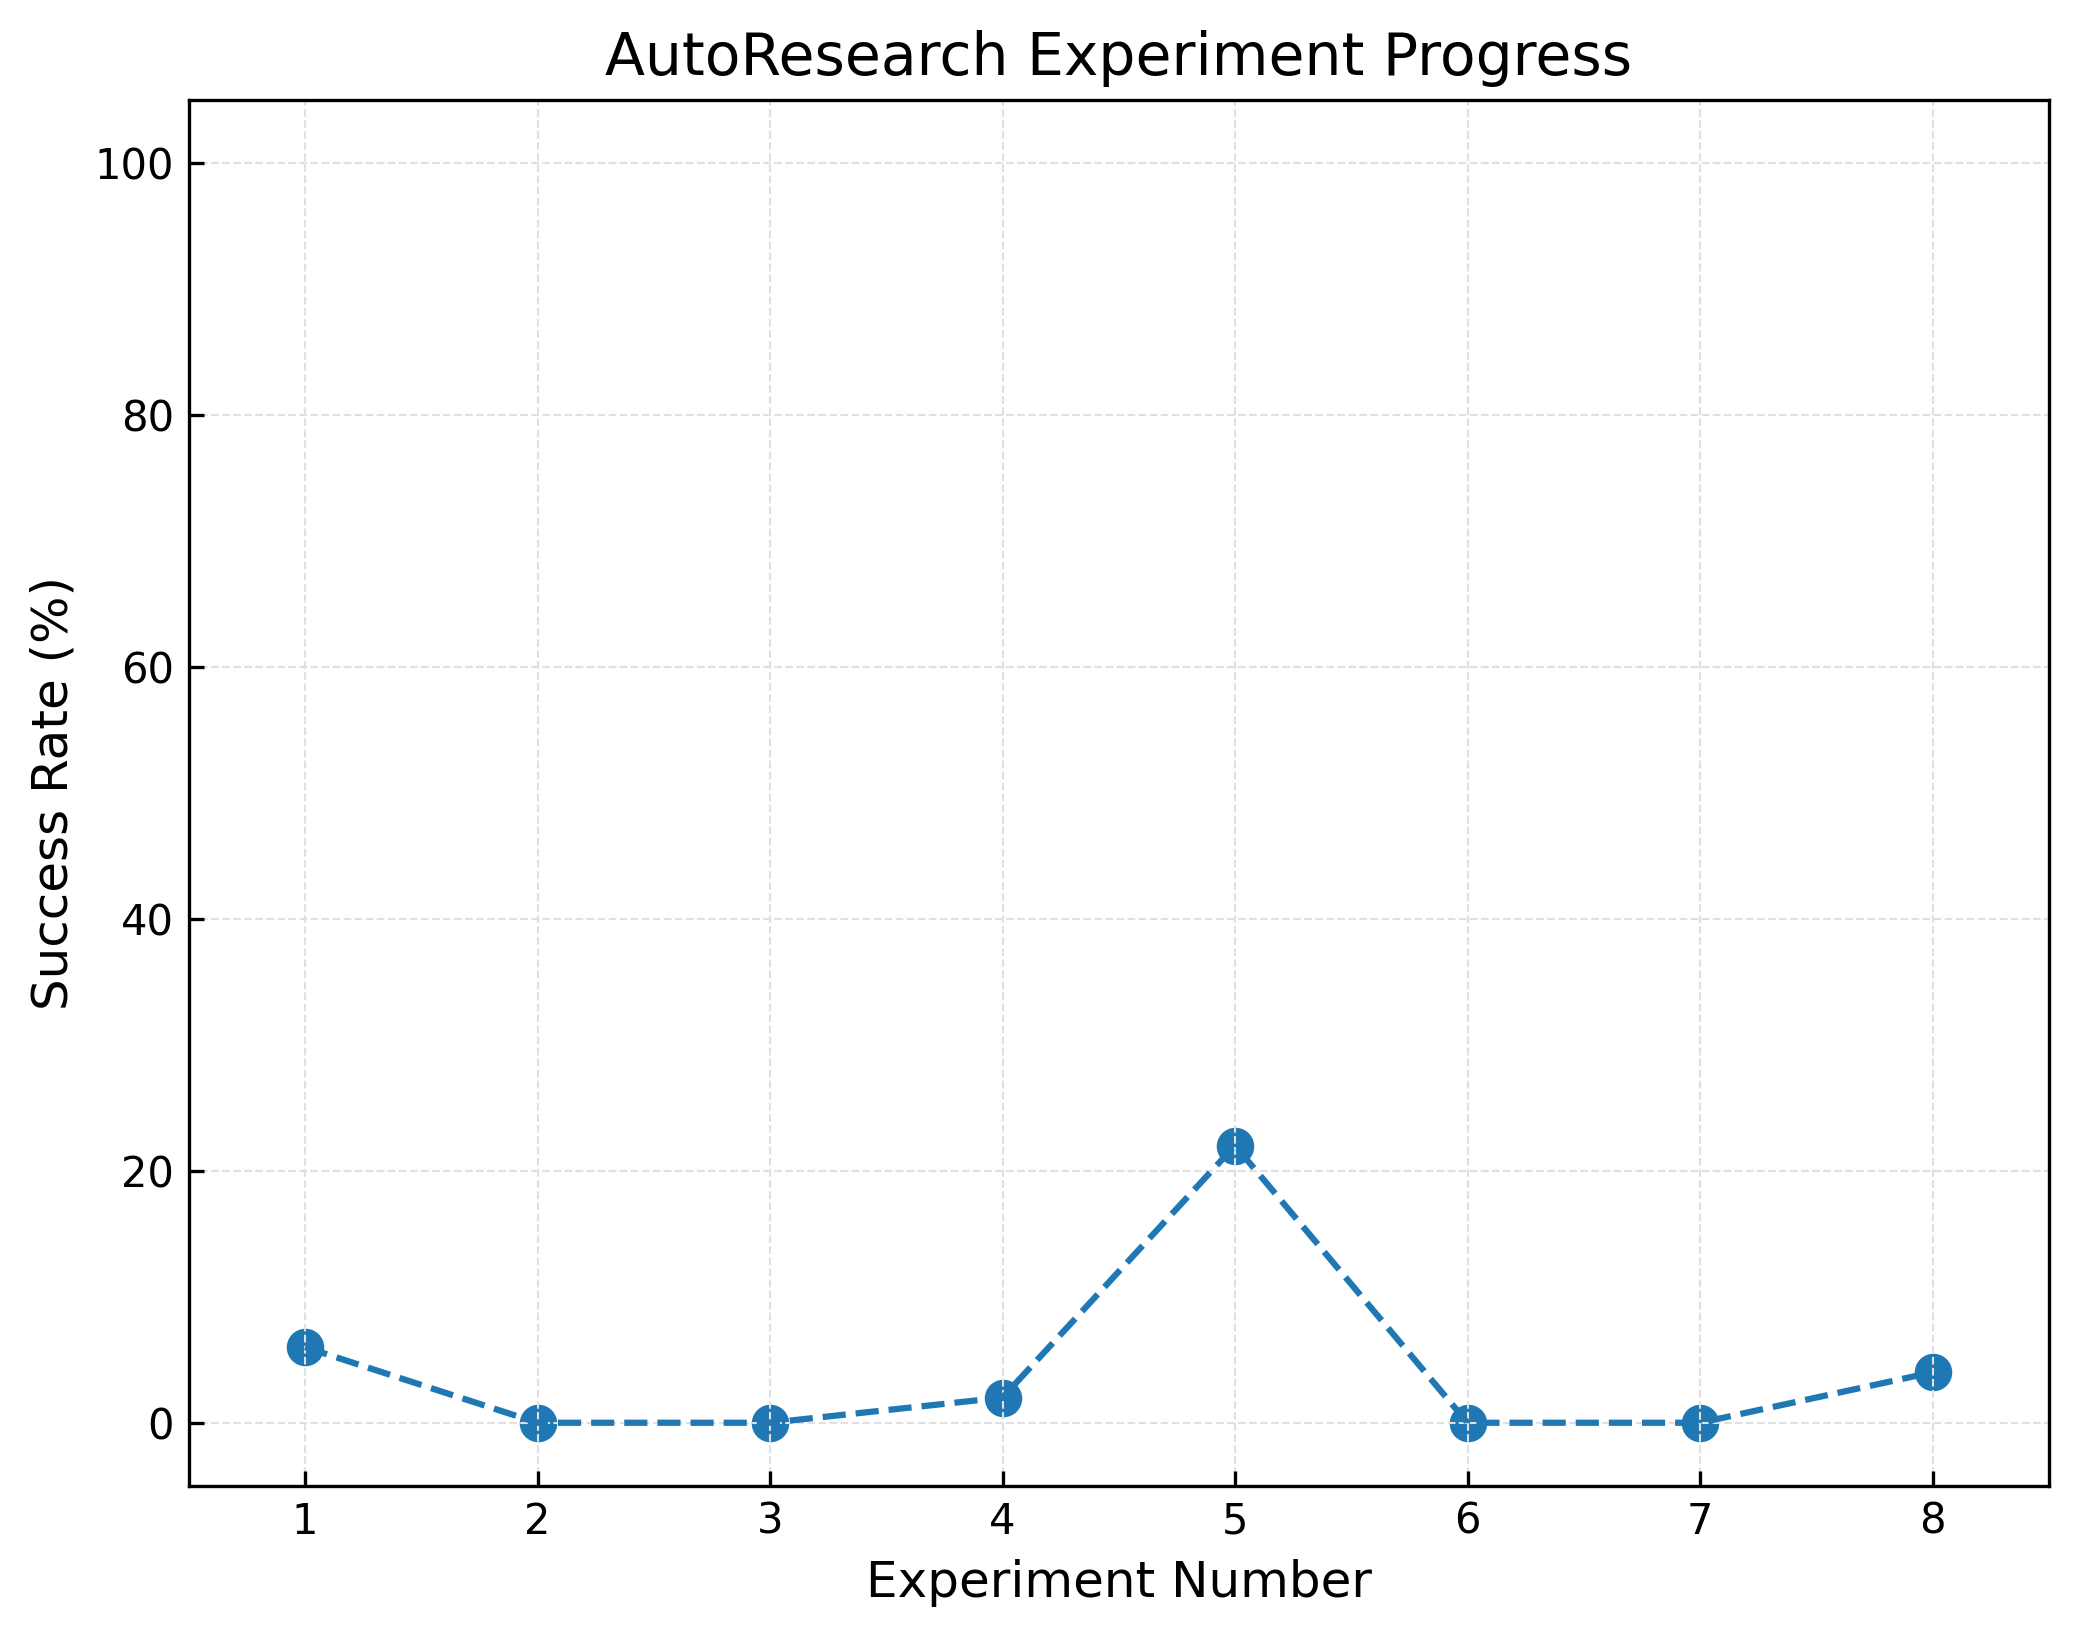
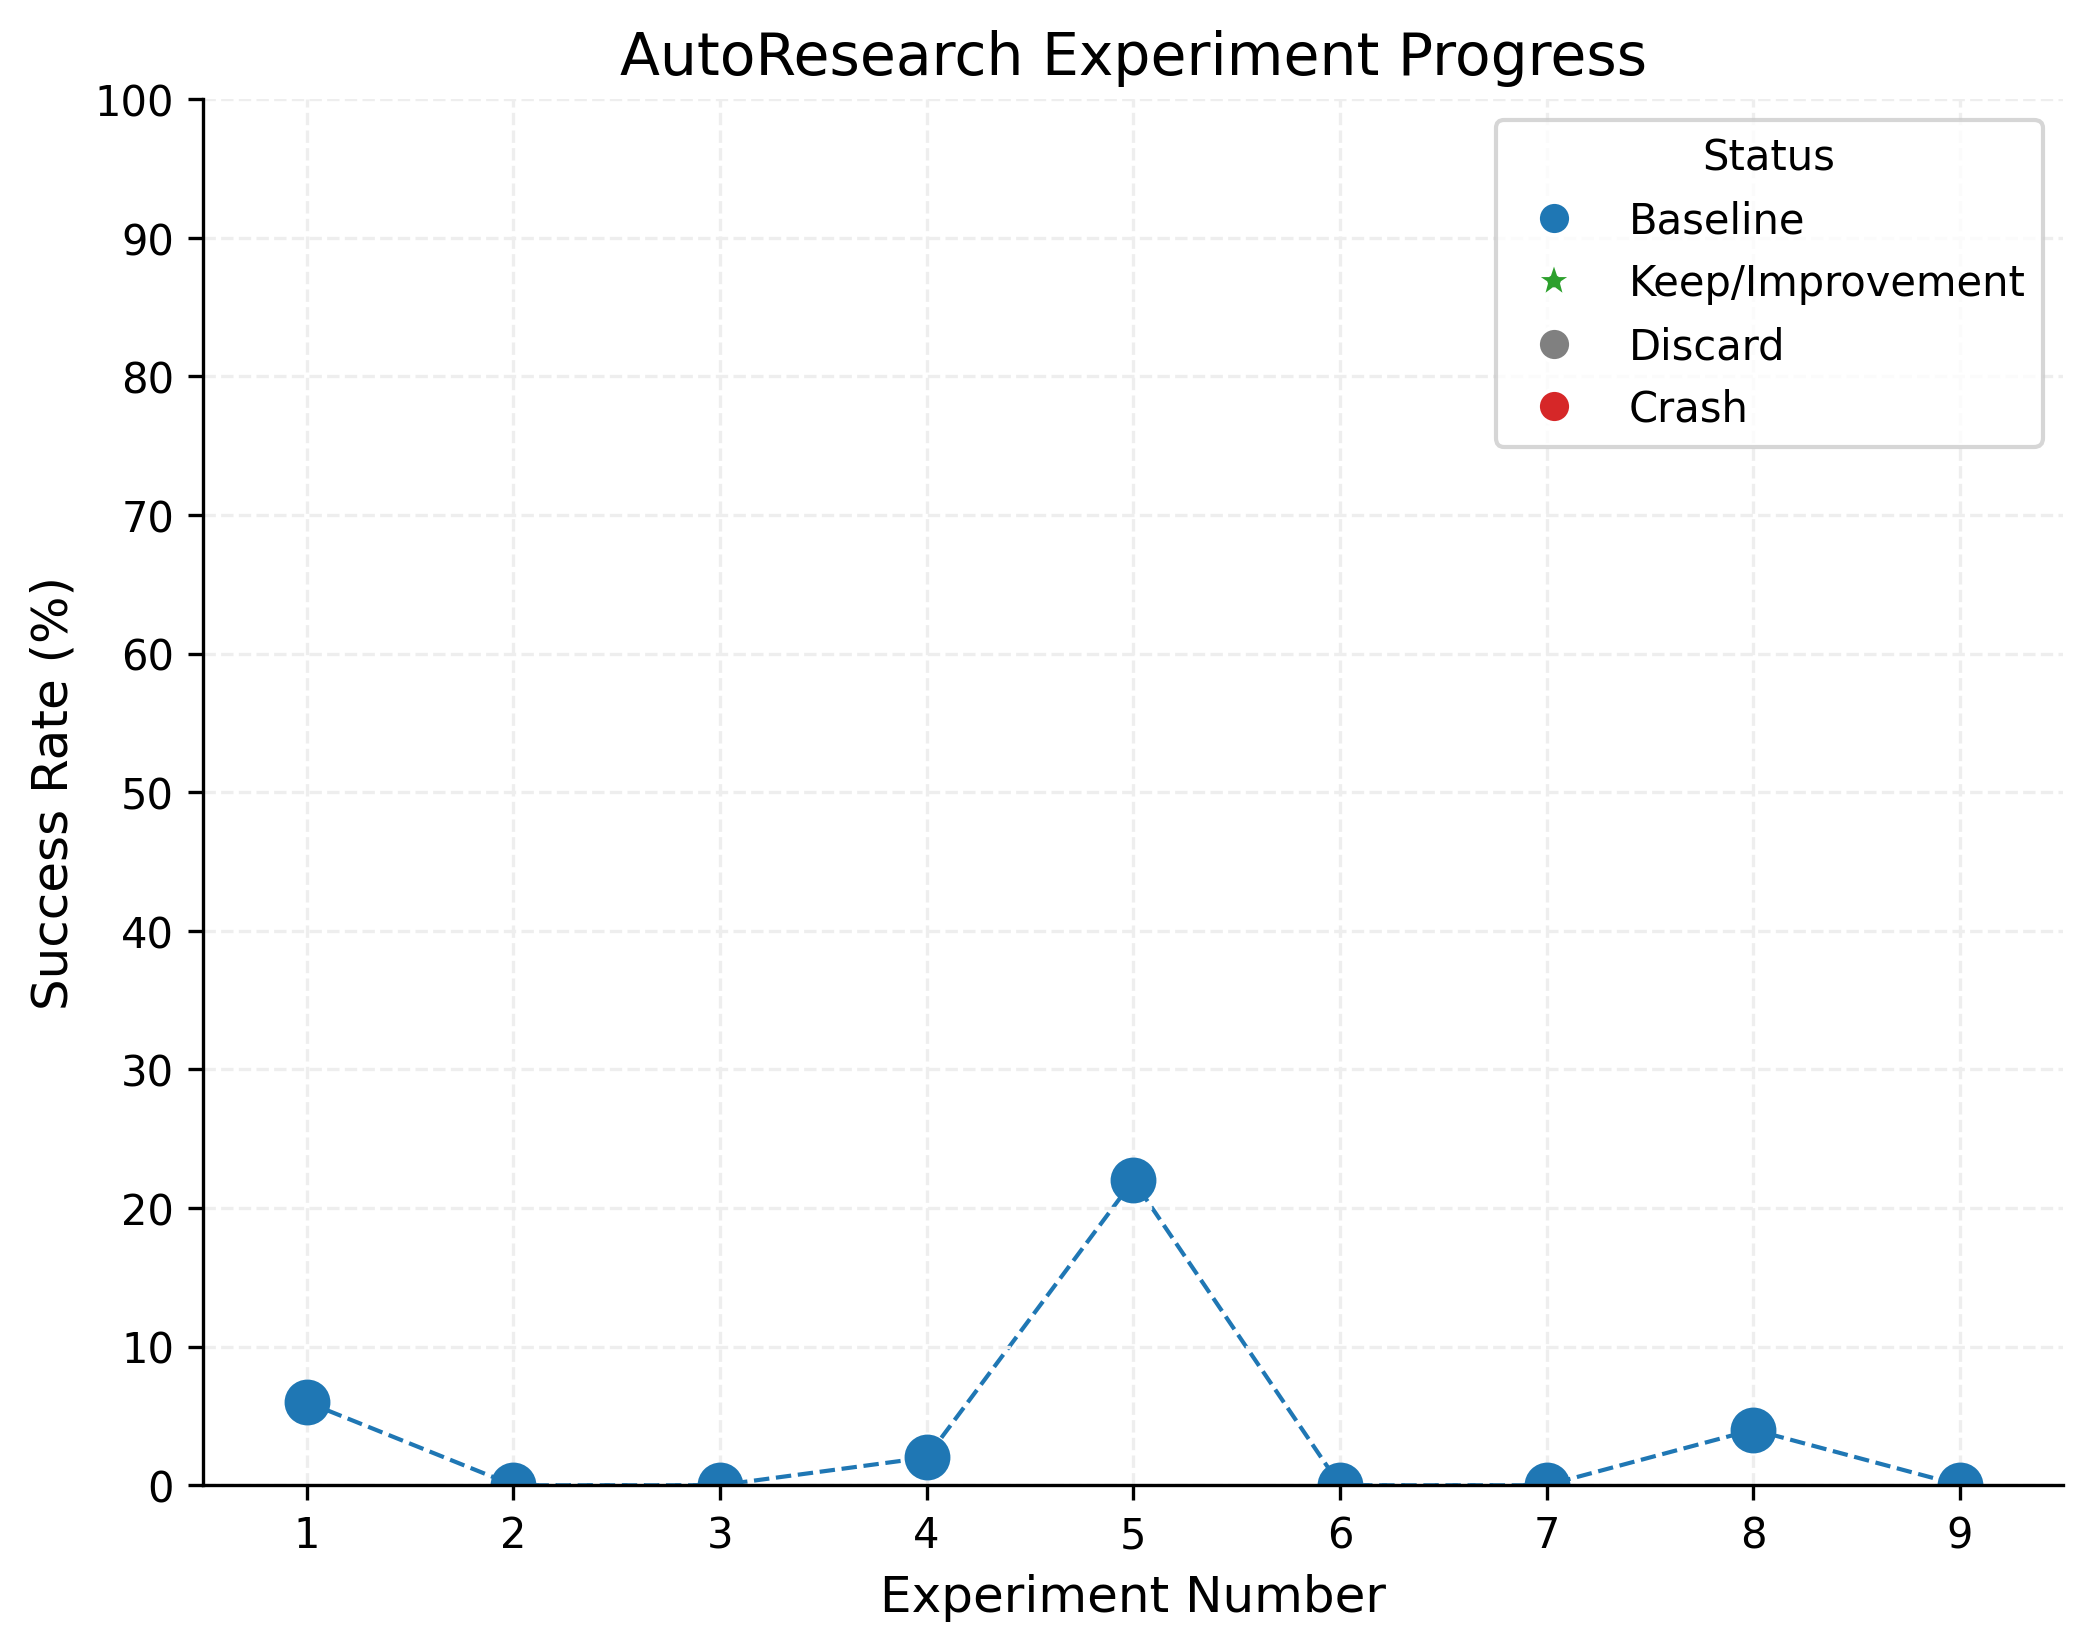
results: 9 experiments — auto-sync

diff --git a/RESULTS.md b/RESULTS.md
@@ -1,18 +1,18 @@
 # AutoResearch-MRL: Live Results
 
-> Last updated: **2026-03-15 16:53 UTC** | auto-generated every 5 min
+> Last updated: **2026-03-15 17:00 UTC** | auto-generated every 5 min
 
 ## Summary
 
 | Metric | Value |
 |--------|-------|
-| **Current Phase** | Phase 1: Baselines (8/9) |
-| Total experiments | 8 |
-| Baselines complete | 8 / 9 |
+| **Current Phase** | Phase 2: Optimization (baselines complete) |
+| Total experiments | 9 |
+| Baselines complete | 9 / 9 |
 | Improvements kept | 0 |
 | Discarded | 0 |
 | Crashes | 0 |
-| Total GPU time | 431 min (7.2 hrs) |
+| Total GPU time | 496 min (8.3 hrs) |
 
 ## Policy Comparison
 
@@ -30,6 +30,7 @@
 | vqbet | AlohaTransferCube-v0 | 0.0% | 0.0 | 0.0 | 65 | 7570 |
 | diffusion | AlohaInsertion-v0 | 0.0% | 6.3 | 0.0 | 65 | 11018 |
 | act | AlohaInsertion-v0 | 4.0% | 116.0 | 0.0 | 65 | 15616 |
+| vqbet | AlohaInsertion-v0 | 0.0% | 0.0 | 0.0 | 65 | 7914 |
 
 ## Training Efficiency
 
@@ -54,6 +55,7 @@
 | 6 | `5bf4180` | vqbet | AlohaTransferCube-v0 | 0.0% | 0.0 | baseline | default vqbet on AlohaTransferCube-v0 |
 | 7 | `4083c68` | diffusion | AlohaInsertion-v0 | 0.0% | 6.3 | baseline | default diffusion on AlohaInsertion-v0 |
 | 8 | `f0cd1ec` | act | AlohaInsertion-v0 | 4.0% | 116.0 | baseline | default act on AlohaInsertion-v0 |
+| 9 | `bf9ea9a` | vqbet | AlohaInsertion-v0 | 0.0% | 0.0 | baseline | default vqbet on AlohaInsertion-v0 |
 
 </details>
 
